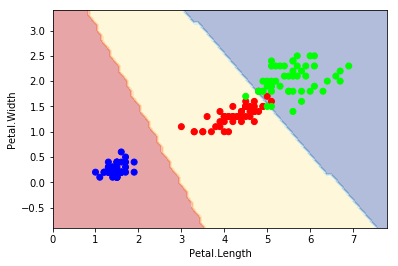
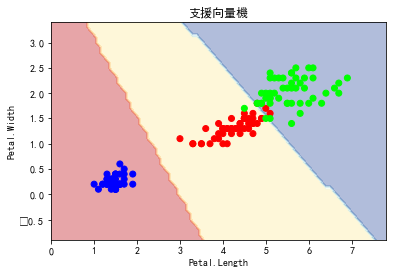
Site updated: 2017-06-24 18:02:30

Changed region(s): [[0.0, 0.0301, 1.0, 0.9925], [0.2121, 0.5414, 0.3636, 0.7218]]

diff --git a/2017/06/18/python-regression/index.html b/2017/06/18/python-regression/index.html
@@ -15,8 +15,10 @@
 <meta property="og:image" content="https://ccliao.github.io/images/scatter.png">
 <meta property="og:image" content="https://ccliao.github.io/images/olsr.png">
 <meta property="og:image" content="https://ccliao.github.io/images/decisiontree_group.png">
+<meta property="og:image" content="https://ccliao.github.io/images/svm.png">
 <meta property="og:image" content="https://ccliao.github.io/images/logistic_regression.png">
-<meta property="og:updated_time" content="2017-06-24T08:19:38.349Z">
+<meta property="og:image" content="https://ccliao.github.io/images/randomforest.png">
+<meta property="og:updated_time" content="2017-06-24T10:01:46.844Z">
 <meta name="twitter:card" content="summary">
 <meta name="twitter:title" content="Python-迴歸分析">
 <meta name="twitter:description" content="相關係數,線性迴歸, statsmodels, sklearn, itertools">
@@ -233,8 +235,9 @@
 <ul>
 <li>itertools迭代指重覆取值，重覆反饋過程的活動<br><code>itertools.combinations([&#39;A&#39;,&#39;B&#39;,&#39;C&#39;,&#39;D&#39;],2)</code>可以得到AB,AC,AD,BC,BD,CD</li>
 </ul>
-<h2 id="羅吉斯迴歸-Logistic-Regression"><a href="#羅吉斯迴歸-Logistic-Regression" class="headerlink" title="羅吉斯迴歸 (Logistic Regression)"></a>羅吉斯迴歸 (<a href="http://scikit-learn.org/stable/modules/generated/sklearn.linear_model.LogisticRegression.html" target="_blank" rel="external">Logistic Regression</a>)</h2><figure class="highlight plain"><table><tr><td class="gutter"><pre><div class="line">1</div><div class="line">2</div><div class="line">3</div><div class="line">4</div><div class="line">5</div><div class="line">6</div><div class="line">7</div><div class="line">8</div><div class="line">9</div><div class="line">10</div><div class="line">11</div><div class="line">12</div><div class="line">13</div><div class="line">14</div><div class="line">15</div><div class="line">16</div><div class="line">17</div><div class="line">18</div><div class="line">19</div><div class="line">20</div><div class="line">21</div><div class="line">22</div><div class="line">23</div><div class="line">24</div><div class="line">25</div><div class="line">26</div><div class="line">27</div></pre></td><td class="code"><pre><div class="line">import numpy as np</div><div class="line">import matplotlib.pyplot as plt</div><div class="line">from sklearn. datasets import load_iris</div><div class="line">#from sklearn import tree</div><div class="line">from sklearn.linear_model import LogisticRegression</div><div class="line">iris = load_iris()</div><div class="line">X = iris.data[:, [2, 3]]</div><div class="line">y = iris.target</div><div class="line"># clf = tree.DecisionTreeClassifier(max_depth=2)</div><div class="line">clf = LogisticRegression()</div><div class="line">clf.fit(X, y)</div><div class="line">x_min, x_max = X[:, 0].min() - 1, X[:, 0].max() + 1 #加1減1只是為了繪圖時留空白</div><div class="line">y_min, y_max = X[:, 1].min() - 1, X[:, 1].max() + 1</div><div class="line">xx, yy = np.meshgrid(np.arange(x_min, x_max, 0.1),</div><div class="line">                     np.arange(y_min, y_max, 0.1)) #meshgrid根據坐標向量創建坐標矩陣</div><div class="line">Z = clf.predict(np.c_[xx.ravel(), yy.ravel()]) #一維,共3476筆資料 </div><div class="line">#ravel() Return a contiguous flattened array</div><div class="line">#np.c_ 串接兩個list,np.ravel將矩陣變為一維</div><div class="line">Z = Z.reshape(xx.shape) #二維,共44筆資料(44,79)</div><div class="line">plt.figure()</div><div class="line">#Contours(輪廓) can be explained simply as a curve joining all the continuous points (along the boundary), having same color or intensity.</div><div class="line">plt.contourf(xx, yy, Z, alpha=0.4, cmap = plt.cm.RdYlBu) #cmap- Colormap #alpha透明度,愈小愈透明0~1</div><div class="line">plt.scatter(X[:, 0], X[:, 1], c=y,  cmap = plt.cm.brg) #c - color</div><div class="line">plt.title(&apos;Logistic Regression&apos;)</div><div class="line">plt.xlabel(&apos;Petal.Length&apos;)</div><div class="line">plt.ylabel(&apos;Petal.Width&apos;)</div><div class="line">plt.show()</div></pre></td></tr></table></figure>
-<p><img src="/images/decisiontree_group.png" alt="決策樹模型"><br><img src="/images/logistic_regression.png" alt="羅吉斯迴歸模型"></p>
+<h2 id="羅吉斯迴歸-Logistic-Regression"><a href="#羅吉斯迴歸-Logistic-Regression" class="headerlink" title="羅吉斯迴歸 (Logistic Regression)"></a>羅吉斯迴歸 (<a href="http://scikit-learn.org/stable/modules/generated/sklearn.linear_model.LogisticRegression.html" target="_blank" rel="external">Logistic Regression</a>)</h2><figure class="highlight python"><table><tr><td class="gutter"><pre><div class="line">1</div><div class="line">2</div><div class="line">3</div><div class="line">4</div><div class="line">5</div><div class="line">6</div><div class="line">7</div><div class="line">8</div><div class="line">9</div><div class="line">10</div><div class="line">11</div><div class="line">12</div><div class="line">13</div><div class="line">14</div><div class="line">15</div><div class="line">16</div><div class="line">17</div><div class="line">18</div><div class="line">19</div><div class="line">20</div><div class="line">21</div><div class="line">22</div><div class="line">23</div><div class="line">24</div><div class="line">25</div><div class="line">26</div><div class="line">27</div><div class="line">28</div><div class="line">29</div><div class="line">30</div><div class="line">31</div><div class="line">32</div><div class="line">33</div><div class="line">34</div><div class="line">35</div><div class="line">36</div><div class="line">37</div><div class="line">38</div><div class="line">39</div><div class="line">40</div><div class="line">41</div><div class="line">42</div><div class="line">43</div><div class="line">44</div><div class="line">45</div><div class="line">46</div><div class="line">47</div><div class="line">48</div><div class="line">49</div></pre></td><td class="code"><pre><div class="line"><span class="keyword">import</span> matplotlib.pyplot <span class="keyword">as</span> plt</div><div class="line"><span class="keyword">from</span> sklearn.datasets <span class="keyword">import</span> load_iris</div><div class="line"><span class="keyword">from</span> sklearn <span class="keyword">import</span> tree</div><div class="line"><span class="keyword">from</span> sklearn.svm <span class="keyword">import</span> SVC</div><div class="line"><span class="keyword">from</span> sklearn.linear_model <span class="keyword">import</span> LogisticRegression</div><div class="line"><span class="keyword">from</span> sklearn.ensemble <span class="keyword">import</span> RandomForestClassifier</div><div class="line"></div><div class="line"><span class="comment">#圖形中文顯示處理</span></div><div class="line">matplotlib.rc(<span class="string">'font'</span>, **&#123;<span class="string">'sans-serif'</span> : <span class="string">'SimHei'</span>,</div><div class="line">                       <span class="string">'family'</span> : <span class="string">'sans-serif'</span>&#125;)</div><div class="line"></div><div class="line"><span class="function"><span class="keyword">def</span> <span class="title">plot_estimator</span><span class="params">(estimator, X, y, title)</span>:</span></div><div class="line">    x_min, x_max = X[:, <span class="number">0</span>].min() - <span class="number">1</span>, X[:, <span class="number">0</span>].max() + <span class="number">1</span> <span class="comment">##加1減1只是為了繪圖時留空白</span></div><div class="line">    y_min, y_max = X[:, <span class="number">1</span>].min() - <span class="number">1</span>, X[:, <span class="number">1</span>].max() + <span class="number">1</span></div><div class="line">    xx, yy = np.meshgrid(np.arange(x_min, x_max, <span class="number">0.1</span>),</div><div class="line">                         np.arange(y_min, y_max, <span class="number">0.1</span>)) <span class="comment">#meshgrid根據坐標向量創建坐標矩陣</span></div><div class="line">    Z = estimator.predict(np.c_[xx.ravel(), yy.ravel()]) <span class="comment">#一維,共3476筆資料</span></div><div class="line">    <span class="comment">#ravel() Return a contiguous flattened array</span></div><div class="line">	<span class="comment">#np.c_ 串接兩個list,np.ravel將矩陣變為一維</span></div><div class="line">	Z = Z.reshape(xx.shape) <span class="comment">#二維,共44筆資料(44,79)</span></div><div class="line">    plt.plot()</div><div class="line">	<span class="comment">#Contours(輪廓) can be explained simply as a curve joining all the continuous points (along the boundary), having same color or intensity.</span></div><div class="line">    plt.contourf(xx, yy, Z, alpha=<span class="number">0.4</span>, cmap = plt.cm.RdYlBu) <span class="comment">#cmap- Colormap #alpha透明度,愈小愈透明0~1</span></div><div class="line">    plt.scatter(X[:, <span class="number">0</span>], X[:, <span class="number">1</span>], c=y,  cmap = plt.cm.brg) <span class="comment">#c - color</span></div><div class="line">    plt.title(title)</div><div class="line">    plt.xlabel(<span class="string">'Petal.Length'</span>)</div><div class="line">    plt.ylabel(<span class="string">'Petal.Width'</span>)</div><div class="line">    plt.show()</div><div class="line"></div><div class="line">iris = load_iris()</div><div class="line">X = iris.data[:,[<span class="number">2</span>,<span class="number">3</span>]]</div><div class="line">y = iris.target[:]</div><div class="line"><span class="comment">#決策樹DecisionTree</span></div><div class="line">clf = tree.DecisionTreeClassifier()</div><div class="line">clf.fit(X, y)</div><div class="line"><span class="comment">#支援向量機SVM</span></div><div class="line">clf1 = SVC(kernel=<span class="string">"linear"</span>)</div><div class="line">clf1.fit(X, y)</div><div class="line"><span class="comment">#羅吉斯迴歸</span></div><div class="line">clf2 = LogisticRegression()</div><div class="line">clf2.fit(X, y)</div><div class="line"><span class="comment">#隨機森林</span></div><div class="line">clf3 = RandomForestClassifier(n_estimators=<span class="number">100</span>, criterion=<span class="string">"entropy"</span>, random_state=<span class="number">0</span>)</div><div class="line">clf3.fit(X, y)</div><div class="line"></div><div class="line">plot_estimator(clf, X, y, <span class="string">"決策樹"</span>)</div><div class="line">plot_estimator(clf1, X, y, <span class="string">"支援向量機"</span>)</div><div class="line">plot_estimator(clf2, X, y, <span class="string">"羅吉斯迴歸"</span>)</div><div class="line">plot_estimator(clf3, X, y, <span class="string">"隨機森林"</span>)</div></pre></td></tr></table></figure>
+<p><img src="/images/decisiontree_group.png" alt="決策樹模型"><br><img src="/images/svm.png" alt="支援向量機模型"><br><img src="/images/logistic_regression.png" alt="羅吉斯迴歸模型"><br><img src="/images/randomforest.png" alt="隨機森林模型"></p>
+<p>The C parameter tells the SVM optimization how much you want to avoid misclassifying each training example. For large values of C, the optimization will choose a smaller-margin hyperplane if that hyperplane does a better job of getting all the training points classified correctly. Conversely, a very small value of C will cause the optimizer to look for a larger-margin separating hyperplane, even if that hyperplane misclassifies more points. For very tiny values of C, you should get misclassified examples, often even if your training data is linearly separable.</p>
 <p>傳統線性迴歸的迴歸係數（regression coefficient）的解釋為「當自變項增加一個單位，依變項則會增加多少單位」，但是在Logistic regression的迴歸係數解釋為「當自變項增加一個單位，依變項1相對依變項0的機率會增加幾倍」，也就是說「自變項增加一個單位，依變項有發生狀況（習慣稱為Event）相對於沒有發生狀況（non-event）的比值」，這個比值就是勝算比（Odds ratio, OR）。我們可以這樣說，除了迴歸係數的解釋方法不太相同之外，基本上可說傳統線性迴歸跟Logistic regression是一樣的分析。<br>from <a href="http://dasanlin888.pixnet.net/blog/post/34468457-logistic-regression%E4%BB%8B%E7%B4%B9---%E6%99%A8%E6%99%B0%E7%B5%B1%E8%A8%88%E6%9E%97%E6%98%9F%E5%B8%86%E9%A1%A7%E5%95%8F%E6%95%B4" target="_blank" rel="external">晨晰統計</a></p>
 
       

diff --git a/2017/06/24/python-svm/index.html b/2017/06/24/python-svm/index.html
@@ -13,7 +13,8 @@
 <meta property="og:image" content="https://ccliao.github.io/images/decisiontree_group.png">
 <meta property="og:image" content="https://ccliao.github.io/images/svm.png">
 <meta property="og:image" content="https://ccliao.github.io/images/logistic_regression.png">
-<meta property="og:updated_time" content="2017-06-24T09:20:54.904Z">
+<meta property="og:image" content="https://ccliao.github.io/images/randomforest.png">
+<meta property="og:updated_time" content="2017-06-24T10:00:51.783Z">
 <meta name="twitter:card" content="summary">
 <meta name="twitter:title" content="Python-支援向量機SVM">
 <meta name="twitter:image" content="https://ccliao.github.io/images/decisiontree_group.png">
@@ -96,8 +97,8 @@
 
 
 
-<h2 id=""><a href="#" class="headerlink" title=""></a><a id="more"></a></h2><figure class="highlight python"><table><tr><td class="gutter"><pre><div class="line">1</div><div class="line">2</div><div class="line">3</div><div class="line">4</div><div class="line">5</div><div class="line">6</div><div class="line">7</div><div class="line">8</div><div class="line">9</div><div class="line">10</div><div class="line">11</div><div class="line">12</div><div class="line">13</div><div class="line">14</div><div class="line">15</div><div class="line">16</div><div class="line">17</div><div class="line">18</div><div class="line">19</div><div class="line">20</div><div class="line">21</div><div class="line">22</div><div class="line">23</div><div class="line">24</div><div class="line">25</div><div class="line">26</div><div class="line">27</div><div class="line">28</div><div class="line">29</div><div class="line">30</div><div class="line">31</div><div class="line">32</div><div class="line">33</div><div class="line">34</div><div class="line">35</div><div class="line">36</div><div class="line">37</div><div class="line">38</div></pre></td><td class="code"><pre><div class="line"><span class="keyword">from</span> itertools <span class="keyword">import</span> product</div><div class="line"><span class="keyword">import</span> numpy <span class="keyword">as</span> np</div><div class="line"><span class="keyword">import</span> matplotlib.pyplot <span class="keyword">as</span> plt</div><div class="line"><span class="keyword">from</span> sklearn.datasets <span class="keyword">import</span> load_iris</div><div class="line"><span class="keyword">from</span> sklearn <span class="keyword">import</span> tree</div><div class="line"><span class="keyword">from</span> sklearn.svm <span class="keyword">import</span> SVC</div><div class="line"><span class="keyword">from</span> sklearn.linear_model <span class="keyword">import</span> LogisticRegression</div><div class="line"></div><div class="line"><span class="function"><span class="keyword">def</span> <span class="title">plot_estimator</span><span class="params">(estimator, X, y)</span>:</span></div><div class="line">    x_min, x_max = X[:, <span class="number">0</span>].min() - <span class="number">1</span>, X[:, <span class="number">0</span>].max() + <span class="number">1</span></div><div class="line">    y_min, y_max = X[:, <span class="number">1</span>].min() - <span class="number">1</span>, X[:, <span class="number">1</span>].max() + <span class="number">1</span></div><div class="line">    xx, yy = np.meshgrid(np.arange(x_min, x_max, <span class="number">0.1</span>),</div><div class="line">                         np.arange(y_min, y_max, <span class="number">0.1</span>))</div><div class="line">    Z = estimator.predict(np.c_[xx.ravel(), yy.ravel()])</div><div class="line">    Z = Z.reshape(xx.shape)</div><div class="line">    plt.plot()</div><div class="line">    plt.contourf(xx, yy, Z, alpha=<span class="number">0.4</span>, cmap = plt.cm.RdYlBu)</div><div class="line">    plt.scatter(X[:, <span class="number">0</span>], X[:, <span class="number">1</span>], c=y,  cmap = plt.cm.brg)</div><div class="line">    plt.xlabel(<span class="string">'Petal.Length'</span>)</div><div class="line">    plt.ylabel(<span class="string">'Petal.Width'</span>)</div><div class="line">    plt.show()</div><div class="line"></div><div class="line">iris = load_iris()</div><div class="line">X = iris.data[:,[<span class="number">2</span>,<span class="number">3</span>]]</div><div class="line">y = iris.target[:]</div><div class="line"><span class="comment">#決策樹DecisionTree</span></div><div class="line">clf = tree.DecisionTreeClassifier(max_depth=<span class="number">2</span>)</div><div class="line">clf.fit(X, y)</div><div class="line"><span class="comment">#支援向量機SVM</span></div><div class="line"><span class="comment">#kernel分為rbf,linear,poly等三種</span></div><div class="line">clf1 = SVC(kernel=<span class="string">"linear"</span>)</div><div class="line">clf1.fit(X, y)</div><div class="line"><span class="comment">#羅吉斯迴歸</span></div><div class="line">clf2 = LogisticRegression()</div><div class="line">clf2.fit(X, y)</div><div class="line">plot_estimator(clf, X, y)</div><div class="line">plot_estimator(clf1, X, y)</div><div class="line">plot_estimator(clf2, X, y)</div></pre></td></tr></table></figure>
-<p><img src="/images/decisiontree_group.png" alt="決策樹模型"><br><img src="/images/svm.png" alt="支援向量機"><br><img src="/images/logistic_regression.png" alt="羅吉斯迴歸模型"></p>
+<h2 id=""><a href="#" class="headerlink" title=""></a><a id="more"></a></h2><figure class="highlight python"><table><tr><td class="gutter"><pre><div class="line">1</div><div class="line">2</div><div class="line">3</div><div class="line">4</div><div class="line">5</div><div class="line">6</div><div class="line">7</div><div class="line">8</div><div class="line">9</div><div class="line">10</div><div class="line">11</div><div class="line">12</div><div class="line">13</div><div class="line">14</div><div class="line">15</div><div class="line">16</div><div class="line">17</div><div class="line">18</div><div class="line">19</div><div class="line">20</div><div class="line">21</div><div class="line">22</div><div class="line">23</div><div class="line">24</div><div class="line">25</div><div class="line">26</div><div class="line">27</div><div class="line">28</div><div class="line">29</div><div class="line">30</div><div class="line">31</div><div class="line">32</div><div class="line">33</div><div class="line">34</div><div class="line">35</div><div class="line">36</div><div class="line">37</div><div class="line">38</div><div class="line">39</div><div class="line">40</div><div class="line">41</div><div class="line">42</div><div class="line">43</div><div class="line">44</div><div class="line">45</div><div class="line">46</div><div class="line">47</div><div class="line">48</div><div class="line">49</div></pre></td><td class="code"><pre><div class="line"><span class="keyword">import</span> matplotlib.pyplot <span class="keyword">as</span> plt</div><div class="line"><span class="keyword">from</span> sklearn.datasets <span class="keyword">import</span> load_iris</div><div class="line"><span class="keyword">from</span> sklearn <span class="keyword">import</span> tree</div><div class="line"><span class="keyword">from</span> sklearn.svm <span class="keyword">import</span> SVC</div><div class="line"><span class="keyword">from</span> sklearn.linear_model <span class="keyword">import</span> LogisticRegression</div><div class="line"><span class="keyword">from</span> sklearn.ensemble <span class="keyword">import</span> RandomForestClassifier</div><div class="line"></div><div class="line"><span class="comment">#圖形中文顯示處理</span></div><div class="line">matplotlib.rc(<span class="string">'font'</span>, **&#123;<span class="string">'sans-serif'</span> : <span class="string">'SimHei'</span>,</div><div class="line">                       <span class="string">'family'</span> : <span class="string">'sans-serif'</span>&#125;)</div><div class="line"></div><div class="line"><span class="function"><span class="keyword">def</span> <span class="title">plot_estimator</span><span class="params">(estimator, X, y, title)</span>:</span></div><div class="line">    x_min, x_max = X[:, <span class="number">0</span>].min() - <span class="number">1</span>, X[:, <span class="number">0</span>].max() + <span class="number">1</span> <span class="comment">##加1減1只是為了繪圖時留空白</span></div><div class="line">    y_min, y_max = X[:, <span class="number">1</span>].min() - <span class="number">1</span>, X[:, <span class="number">1</span>].max() + <span class="number">1</span></div><div class="line">    xx, yy = np.meshgrid(np.arange(x_min, x_max, <span class="number">0.1</span>),</div><div class="line">                         np.arange(y_min, y_max, <span class="number">0.1</span>)) <span class="comment">#meshgrid根據坐標向量創建坐標矩陣</span></div><div class="line">    Z = estimator.predict(np.c_[xx.ravel(), yy.ravel()]) <span class="comment">#一維,共3476筆資料</span></div><div class="line">    <span class="comment">#ravel() Return a contiguous flattened array</span></div><div class="line">	<span class="comment">#np.c_ 串接兩個list,np.ravel將矩陣變為一維</span></div><div class="line">	Z = Z.reshape(xx.shape) <span class="comment">#二維,共44筆資料(44,79)</span></div><div class="line">    plt.plot()</div><div class="line">	<span class="comment">#Contours(輪廓) can be explained simply as a curve joining all the continuous points (along the boundary), having same color or intensity.</span></div><div class="line">    plt.contourf(xx, yy, Z, alpha=<span class="number">0.4</span>, cmap = plt.cm.RdYlBu) <span class="comment">#cmap- Colormap #alpha透明度,愈小愈透明0~1</span></div><div class="line">    plt.scatter(X[:, <span class="number">0</span>], X[:, <span class="number">1</span>], c=y,  cmap = plt.cm.brg) <span class="comment">#c - color</span></div><div class="line">    plt.title(title)</div><div class="line">    plt.xlabel(<span class="string">'Petal.Length'</span>)</div><div class="line">    plt.ylabel(<span class="string">'Petal.Width'</span>)</div><div class="line">    plt.show()</div><div class="line"></div><div class="line">iris = load_iris()</div><div class="line">X = iris.data[:,[<span class="number">2</span>,<span class="number">3</span>]]</div><div class="line">y = iris.target[:]</div><div class="line"><span class="comment">#決策樹DecisionTree</span></div><div class="line">clf = tree.DecisionTreeClassifier()</div><div class="line">clf.fit(X, y)</div><div class="line"><span class="comment">#支援向量機SVM</span></div><div class="line">clf1 = SVC(kernel=<span class="string">"linear"</span>)</div><div class="line">clf1.fit(X, y)</div><div class="line"><span class="comment">#羅吉斯迴歸</span></div><div class="line">clf2 = LogisticRegression()</div><div class="line">clf2.fit(X, y)</div><div class="line"><span class="comment">#隨機森林</span></div><div class="line">clf3 = RandomForestClassifier(n_estimators=<span class="number">100</span>, criterion=<span class="string">"entropy"</span>, random_state=<span class="number">0</span>)</div><div class="line">clf3.fit(X, y)</div><div class="line"></div><div class="line">plot_estimator(clf, X, y, <span class="string">"決策樹"</span>)</div><div class="line">plot_estimator(clf1, X, y, <span class="string">"支援向量機"</span>)</div><div class="line">plot_estimator(clf2, X, y, <span class="string">"羅吉斯迴歸"</span>)</div><div class="line">plot_estimator(clf3, X, y, <span class="string">"隨機森林"</span>)</div></pre></td></tr></table></figure>
+<p><img src="/images/decisiontree_group.png" alt="決策樹模型"><br><img src="/images/svm.png" alt="支援向量機模型"><br><img src="/images/logistic_regression.png" alt="羅吉斯迴歸模型"><br><img src="/images/randomforest.png" alt="隨機森林模型"></p>
 <p>The C parameter tells the SVM optimization how much you want to avoid misclassifying each training example. For large values of C, the optimization will choose a smaller-margin hyperplane if that hyperplane does a better job of getting all the training points classified correctly. Conversely, a very small value of C will cause the optimizer to look for a larger-margin separating hyperplane, even if that hyperplane misclassifies more points. For very tiny values of C, you should get misclassified examples, often even if your training data is linearly separable.</p>
 
       
